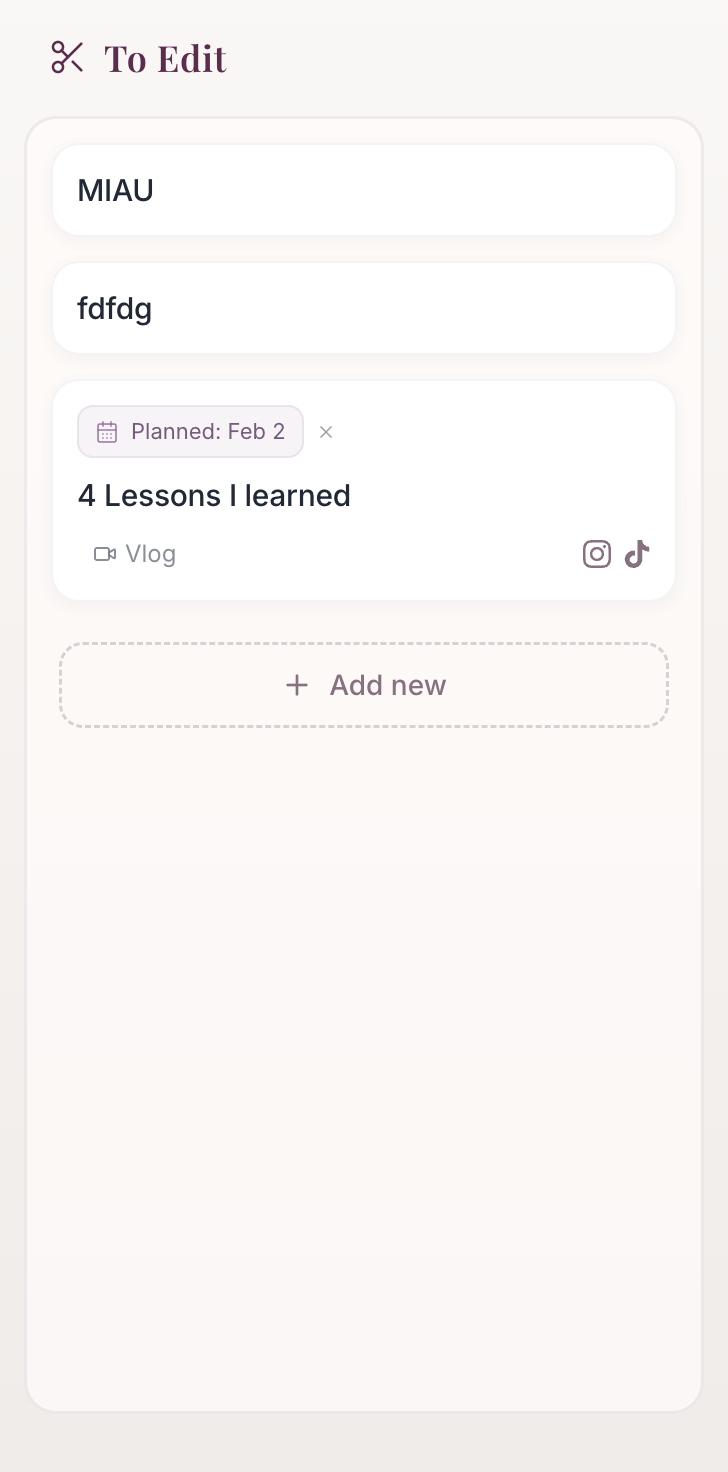
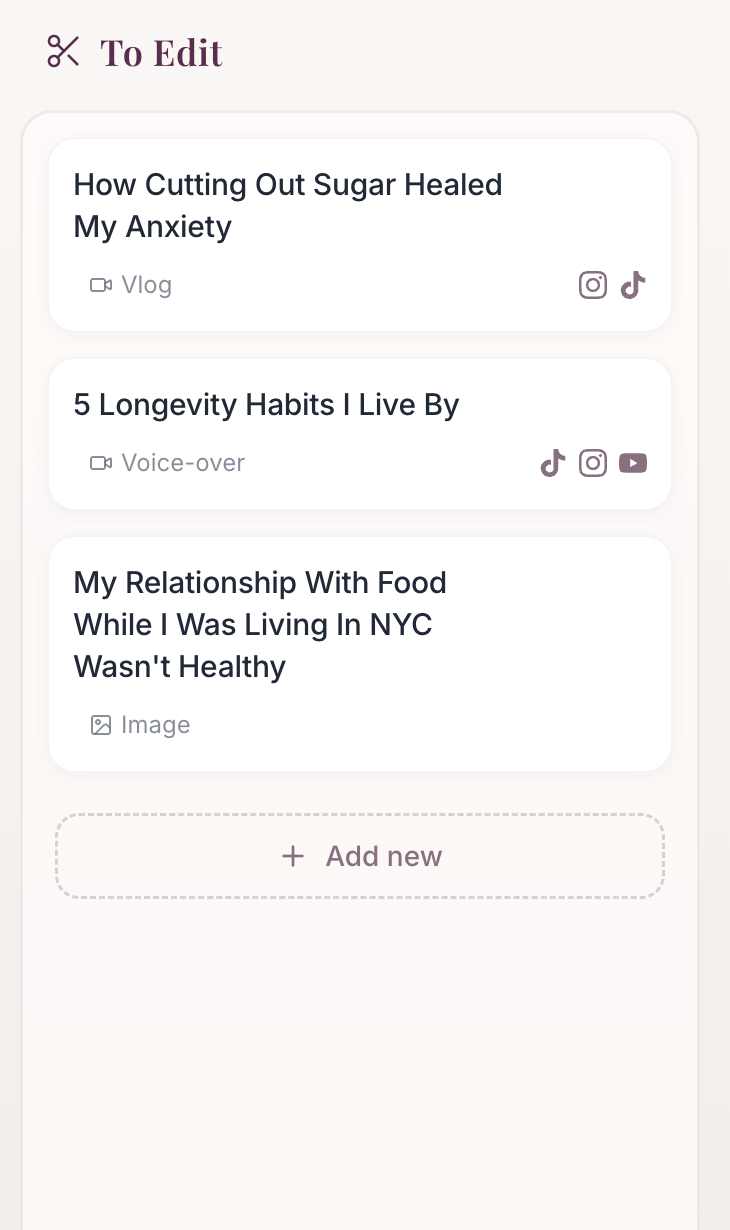
Redesign landing page content pipeline with 3D perspective board
- Replace flat carousel with 3D perspective board (rotateY + rotateX)
- Add depth-of-field effect with blur/opacity on outer columns
- Add floating animation and staggered reveal from center outward
- Add labeled column headers with icons (Script & Concept, To Film, To Edit, Ready to Publish)
- Fix navbar flickering on scroll with passive listener and state tracking
- Fix mobile overflow and center pipeline board on small screens
- Update pipeline column images with new screenshots

diff --git a/public/landing.html b/public/landing.html
@@ -36,6 +36,7 @@
       background-color: #fcf9fe;
       color: var(--text-body);
       line-height: 1.6;
+      overflow-x: hidden;
     }
 
     body::before {
@@ -91,7 +92,6 @@
       position: fixed;
       top: 20px;
       left: 50%;
-      transform: translateX(-50%);
       z-index: 1000;
       display: flex;
       align-items: center;
@@ -103,6 +103,7 @@
       background: rgba(255,255,255,0.65);
       backdrop-filter: blur(20px) saturate(180%);
       -webkit-backdrop-filter: blur(20px) saturate(180%);
+      transform: translateX(-50%);
       border: 1px solid rgba(255,255,255,0.45);
       box-shadow: 0 1px 8px rgba(0,0,0,0.06), 0 0 0 1px rgba(255,255,255,0.5), inset 0 0 0 1px rgba(255,255,255,0.4);
       opacity: 0;
@@ -1635,6 +1636,7 @@
       position: relative;
       z-index: 1;
       padding: 100px 24px;
+      overflow-x: hidden;
       background: linear-gradient(180deg, rgba(230,225,245,0.2) 0%, rgba(225,230,248,0.2) 100%);
       border-radius: 40px 40px 0 0;
       scroll-margin-top: 40px;
@@ -1695,6 +1697,8 @@
 
     .feature-row.reversed {
       direction: rtl;
+      grid-template-columns: 1fr 0.8fr;
+      gap: 60px;
     }
 
     .feature-row.reversed > * {
@@ -1750,52 +1754,83 @@
     }
 
     .pipeline-visual {
-      background: #ffffff;
-      box-shadow: 0 12px 48px rgba(97,42,79,0.08), 0 2px 8px rgba(0,0,0,0.04);
-      border-radius: 24px;
-      padding: 28px;
-      position: relative;
-      overflow: hidden;
+      padding: 0 !important;
+      overflow: visible !important;
+      background: transparent !important;
+      box-shadow: none !important;
+      border: none !important;
     }
 
     .pipeline-visual::before {
       display: none;
     }
 
-    .pipeline-carousel {
+    .pipeline-board {
+      perspective: 1200px;
+      perspective-origin: left center;
       display: flex;
-      gap: 16px;
-      overflow-x: hidden;
-      scroll-behavior: smooth;
+      justify-content: flex-start;
     }
 
-    .pipeline-slide {
-      flex: 0 0 280px;
-      border-radius: 14px;
+    .pipeline-board-inner {
+      display: flex;
+      gap: 10px;
+      transform: rotateY(-12deg) rotateX(4deg);
+      transform-style: preserve-3d;
+      animation: pipelineFloat 6s ease-in-out infinite;
+    }
+
+    @keyframes pipelineFloat {
+      0%, 100% { transform: rotateY(-12deg) rotateX(4deg) translateY(0); }
+      50% { transform: rotateY(-12deg) rotateX(4deg) translateY(-8px); }
+    }
+
+    .pipeline-col {
+      width: 180px;
+      border-radius: 16px;
       overflow: hidden;
-      box-shadow: 0 4px 20px rgba(97,42,79,0.1);
-      background: #faf8fb;
+      box-shadow: 0 8px 32px rgba(97,42,79,0.12), 0 2px 8px rgba(0,0,0,0.06);
+      background: #faf6f2;
+      transition: opacity 0.6s ease, filter 0.6s ease, transform 0.6s ease;
       opacity: 0;
-      transform: translateY(25px);
-      transition: opacity 0.6s ease, transform 0.6s ease;
+      transform: translateY(20px);
     }
 
-    .pipeline-slide.visible {
+    .pipeline-col.visible {
       opacity: 1;
       transform: translateY(0);
     }
 
-    .pipeline-slide img {
+    /* Z-depth staggering: 0 → 20 → 20 → 0 */
+    .pipeline-col.visible:nth-child(1) { transform: translateZ(0px); opacity: 0.7; filter: blur(0.5px); }
+    .pipeline-col.visible:nth-child(2) { transform: translateZ(20px); opacity: 1; filter: blur(0); }
+    .pipeline-col.visible:nth-child(3) { transform: translateZ(20px); opacity: 1; filter: blur(0); }
+    .pipeline-col.visible:nth-child(4) { transform: translateZ(0px); opacity: 0.7; filter: blur(0.5px); }
+
+    .pipeline-col-label {
+      display: flex;
+      align-items: center;
+      gap: 6px;
+      padding: 12px 14px 8px;
+      font-family: 'DM Sans', sans-serif;
+      font-size: 13px;
+      font-weight: 600;
+      color: #4e2040;
+      letter-spacing: 0.01em;
+    }
+
+    .pipeline-col-label svg {
+      width: 16px;
+      height: 16px;
+      flex-shrink: 0;
+      color: #8B7082;
+    }
+
+    .pipeline-col img {
       width: 100%;
       height: auto;
       display: block;
-      border-radius: 14px;
-    }
-
-    @media (min-width: 768px) {
-      .pipeline-slide {
-        flex: 0 0 320px;
-      }
+      background: #ffffff;
     }
 
     .calendar-visual {
@@ -3337,6 +3372,14 @@
       .scene-grid {
         grid-template-columns: repeat(2, 1fr);
       }
+
+      .pipeline-board {
+        overflow: visible;
+      }
+
+      .pipeline-board-inner {
+        margin-left: calc(50vw - 390px);
+      }
     }
 
     @media (max-width: 600px) {
@@ -3371,6 +3414,7 @@
       .scene-grid {
         grid-template-columns: 1fr 1fr;
       }
+
     }
 
     /* ==================== FINAL CTA SECTION ==================== */
@@ -4020,21 +4064,36 @@
         <p>See your entire workflow on one visual board. Always know what's in progress, what needs attention, and what's ready to go live.</p>
       </div>
       <div class="feature-visual reveal-visual pipeline-visual">
-        <div class="pipeline-carousel">
-          <div class="pipeline-slide">
-            <img src="pipeline-bank-of-ideas.png" alt="Bank of Ideas column">
-          </div>
-          <div class="pipeline-slide">
-            <img src="pipeline-script-concept.png" alt="Script and Concept column">
-          </div>
-          <div class="pipeline-slide">
-            <img src="pipeline-to-film.png" alt="To Film column">
-          </div>
-          <div class="pipeline-slide">
-            <img src="pipeline-to-edit.png" alt="To Edit column">
-          </div>
-          <div class="pipeline-slide">
-            <img src="pipeline-to-schedule.png" alt="To Schedule column">
+        <div class="pipeline-board">
+          <div class="pipeline-board-inner">
+            <div class="pipeline-col">
+              <div class="pipeline-col-label">
+                <svg viewBox="0 0 24 24" fill="none" stroke="currentColor" stroke-width="2" stroke-linecap="round" stroke-linejoin="round"><path d="M17 3a2.85 2.85 0 1 1 4 4L7.5 20.5 2 22l1.5-5.5Z"/><path d="m15 5 4 4"/></svg>
+                Script &amp; Concept
+              </div>
+              <img src="col-1-ideas.png" alt="Script and Concept">
+            </div>
+            <div class="pipeline-col">
+              <div class="pipeline-col-label">
+                <svg viewBox="0 0 24 24" fill="none" stroke="currentColor" stroke-width="2" stroke-linecap="round" stroke-linejoin="round"><path d="m16 13 5.223 3.482a.5.5 0 0 0 .777-.416V7.934a.5.5 0 0 0-.777-.416L16 11"/><rect x="2" y="6" width="14" height="12" rx="2"/></svg>
+                To Film
+              </div>
+              <img src="col-2-script.png" alt="To Film">
+            </div>
+            <div class="pipeline-col">
+              <div class="pipeline-col-label">
+                <svg viewBox="0 0 24 24" fill="none" stroke="currentColor" stroke-width="2" stroke-linecap="round" stroke-linejoin="round"><path d="m18 5-2.414-2.414A2 2 0 0 0 14.172 2H6a2 2 0 0 0-2 2v16a2 2 0 0 0 2 2h12a2 2 0 0 0 2-2"/><path d="M21.5 15a3 3 0 0 0-3-3H16a3 3 0 0 0-3 3v2a3 3 0 0 0 3 3h2.5a3 3 0 0 0 3-3v-2z"/><path d="M8 18h1"/></svg>
+                To Edit
+              </div>
+              <img src="col-3-film.png" alt="To Edit">
+            </div>
+            <div class="pipeline-col">
+              <div class="pipeline-col-label">
+                <svg viewBox="0 0 24 24" fill="none" stroke="currentColor" stroke-width="2" stroke-linecap="round" stroke-linejoin="round"><path d="M22 11.08V12a10 10 0 1 1-5.93-9.14"/><polyline points="22 4 12 14.01 9 11.01"/></svg>
+                Ready to Publish
+              </div>
+              <img src="col-4-edit.png" alt="Ready to Publish">
+            </div>
           </div>
         </div>
       </div>
@@ -4381,38 +4440,21 @@
 
     visualElements.forEach(el => visualObserver.observe(el));
 
-    // ── Pipeline slides staggered reveal + auto-scroll ──
+    // ── Pipeline 3D board staggered reveal ──
     const pipelineVisual = document.querySelector('.pipeline-visual');
     if (pipelineVisual) {
-      const carousel = pipelineVisual.querySelector('.pipeline-carousel');
-      const slides = pipelineVisual.querySelectorAll('.pipeline-slide');
+      const cols = pipelineVisual.querySelectorAll('.pipeline-col');
       let pipelinePlayed = false;
 
       const pipelineObserver = new IntersectionObserver((entries) => {
         entries.forEach(entry => {
           if (entry.isIntersecting && !pipelinePlayed) {
             pipelinePlayed = true;
-            // Staggered reveal
-            slides.forEach((slide, i) => {
-              setTimeout(() => slide.classList.add('visible'), i * 200);
+            // Stagger from center outward: 2&3, then 1&4
+            const order = [1, 2, 0, 3];
+            order.forEach((colIdx, i) => {
+              setTimeout(() => cols[colIdx].classList.add('visible'), i * 150);
             });
-            // Start auto-scroll after all slides have appeared
-            setTimeout(() => {
-              let scrollDirection = 1;
-              const speed = 1.5; // px per frame
-              function autoScroll() {
-                if (!carousel) return;
-                const maxScroll = carousel.scrollWidth - carousel.clientWidth;
-                carousel.scrollLeft += speed * scrollDirection;
-                if (carousel.scrollLeft >= maxScroll) {
-                  scrollDirection = -1;
-                } else if (carousel.scrollLeft <= 0) {
-                  scrollDirection = 1;
-                }
-                requestAnimationFrame(autoScroll);
-              }
-              requestAnimationFrame(autoScroll);
-            }, slides.length * 200 + 600);
           }
         });
       }, { threshold: 0.2 });
@@ -4494,17 +4536,22 @@
     const nav = document.querySelector('nav');
     const navLogo = document.querySelector('.nav-logo');
     let navExpanded = false;
+    let isCompact = false;
 
     window.addEventListener('scroll', () => {
       if (window.scrollY > 80) {
-        if (!navExpanded) {
+        if (!isCompact && !navExpanded) {
           nav.classList.add('compact');
+          isCompact = true;
         }
       } else {
-        nav.classList.remove('compact');
-        navExpanded = false;
+        if (isCompact || navExpanded) {
+          nav.classList.remove('compact');
+          isCompact = false;
+          navExpanded = false;
+        }
       }
-    });
+    }, { passive: true });
 
     // Click logo to expand/collapse nav
     navLogo.addEventListener('click', (e) => {
